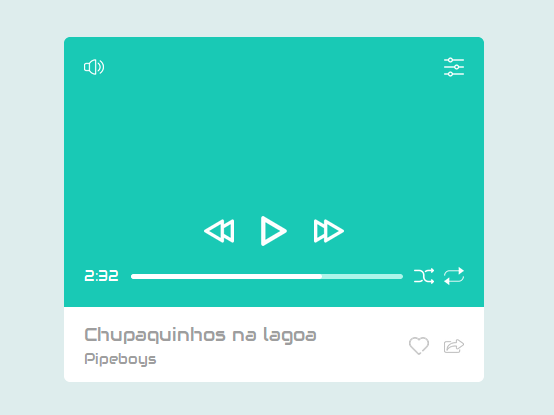
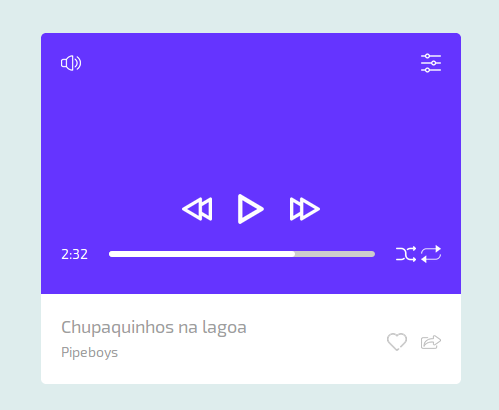
Add new colors to background player and new image to git

diff --git a/app/scripts/main.js b/app/scripts/main.js
@@ -69,8 +69,8 @@ btnBackward.addEventListener('click', function() {
 });
 
 function getRandomColor() {
-  var colors = ['#7d4627', '#173e43', '#3fb0ac', '#e62739', '#6ed3cf',
-    '#22264b', '#dbc3d0', '#e05038', '#300032', '#cdd422'];
+  var colors = ['#7d4627', '#5BB12F', '#3fb0ac', '#e62739', '#6ed3cf',
+    '#B1EB00', '#5e0231', '#6534ff', '#982395', '#FF85CB'];
 
     var color_idx = Math.floor(Math.random() * colors.length);
     return colors[color_idx];
